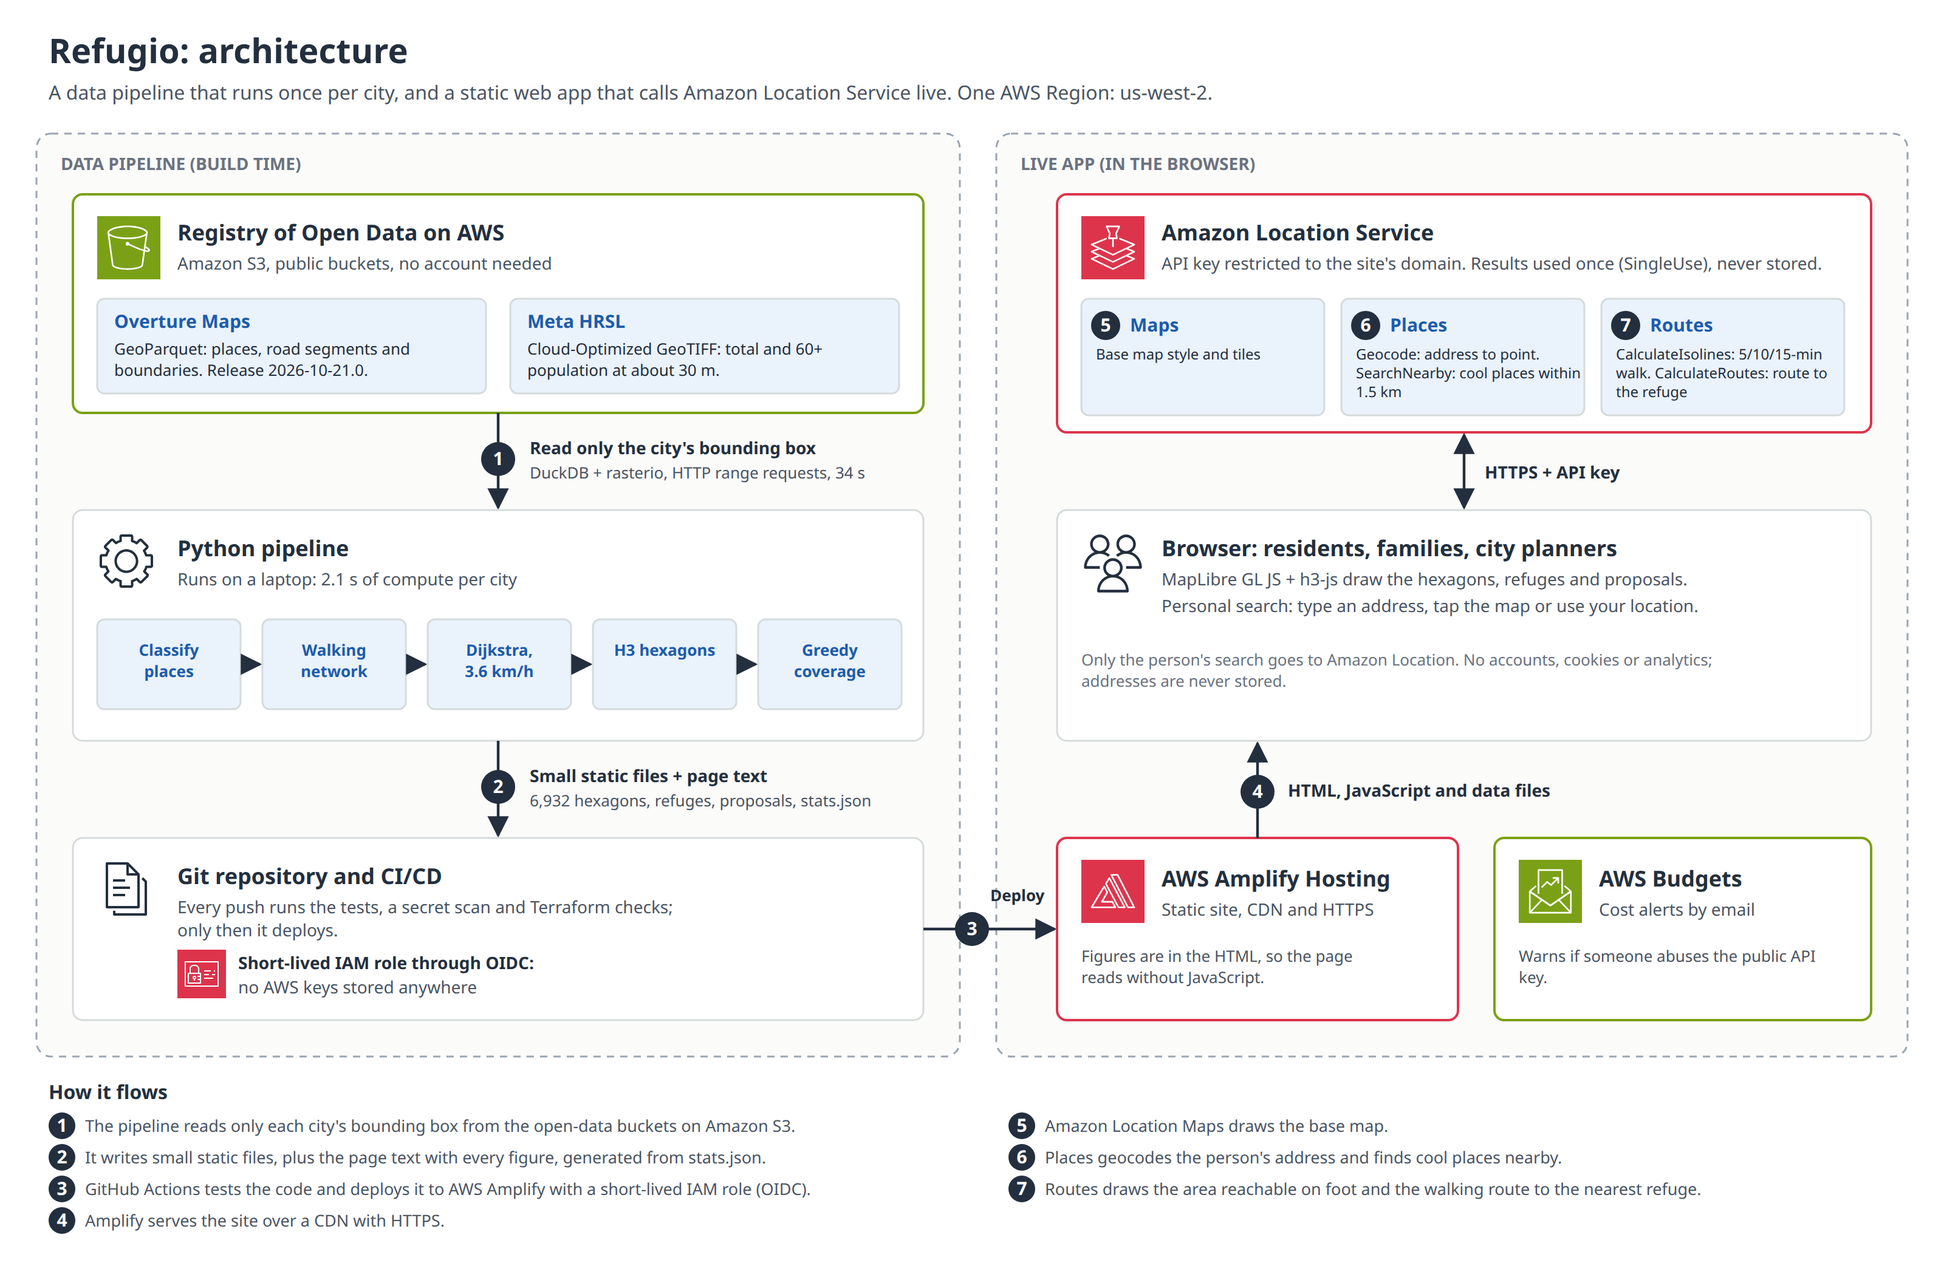
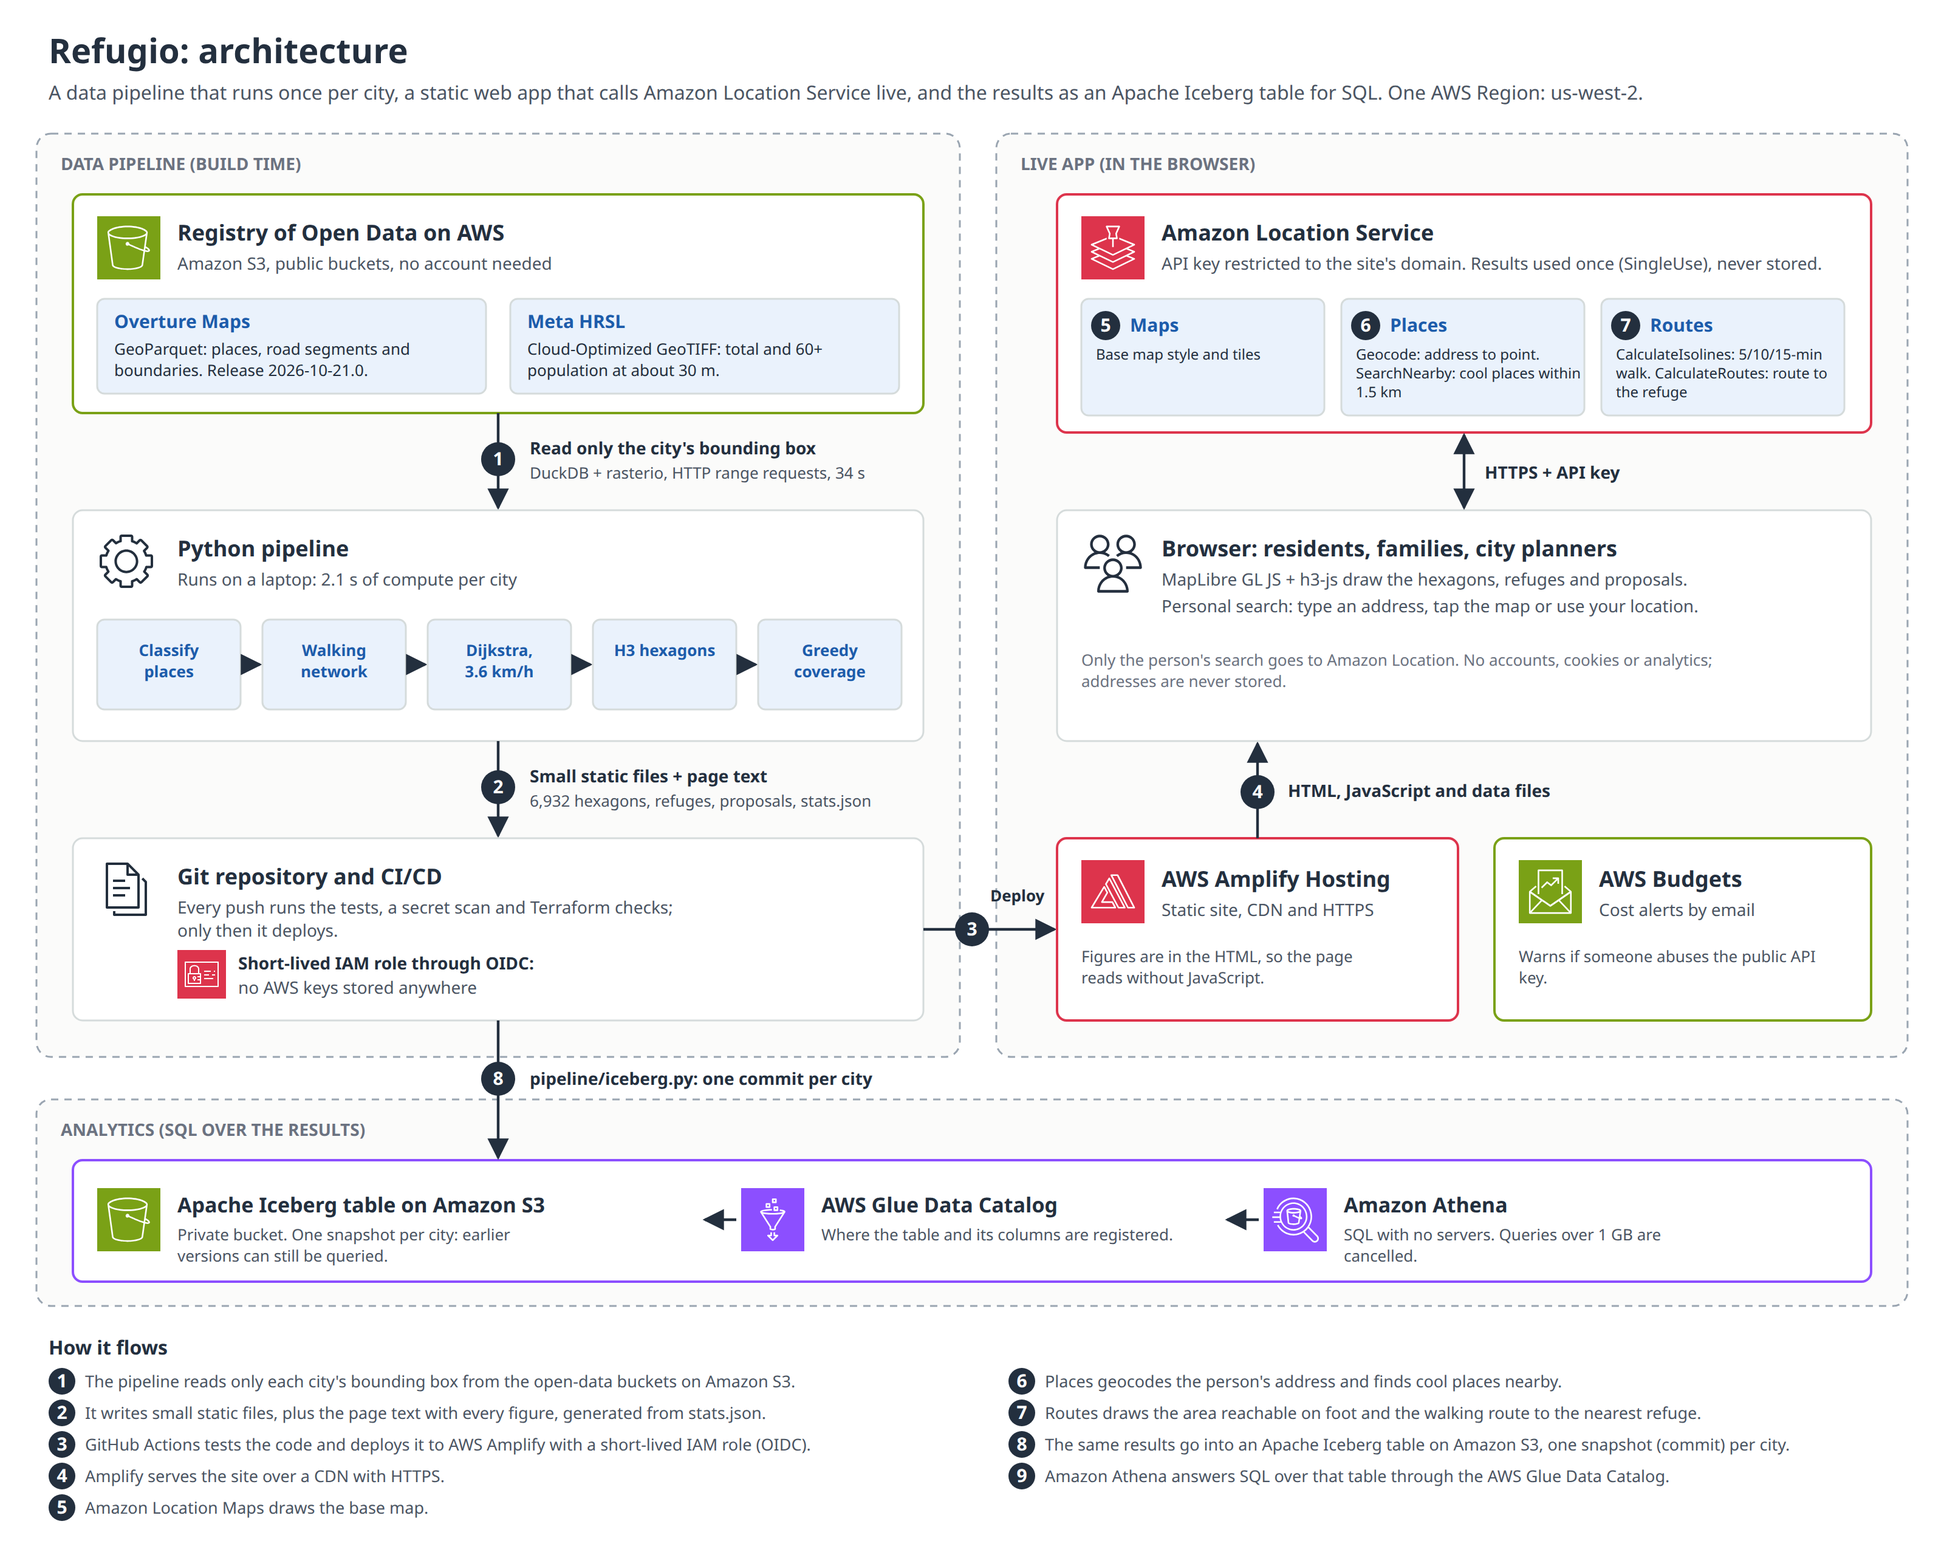
Show the Iceberg table in the architecture diagram, about page and README

diff --git a/web/about.html b/web/about.html
@@ -68,7 +68,7 @@ in Amazon S3. Only each city's bounding box is read, with HTTP range requests, s
 40 seconds instead of pulling global files.</p>
 
 <h2>How it's put on the map</h2>
-<figure><img src="img/k1_architecture.png" alt="Architecture diagram: a data pipeline reads Overture Maps and Meta HRSL from Amazon S3 and writes static files; GitHub Actions deploys them to AWS Amplify; the browser calls Amazon Location Maps, Places and Routes." loading="lazy"><figcaption>A pipeline that runs once per city, and a static site that calls Amazon Location live. One AWS Region: us-west-2.</figcaption></figure>
+<figure><img src="img/k1_architecture.png" alt="Architecture diagram: a data pipeline reads Overture Maps and Meta HRSL from Amazon S3 and writes static files; GitHub Actions deploys them to AWS Amplify; the browser calls Amazon Location Maps, Places and Routes. The same results also go into an Apache Iceberg table on Amazon S3, queried with Amazon Athena through the AWS Glue Data Catalog." loading="lazy"><figcaption>A pipeline that runs once per city, a static site that calls Amazon Location live, and the results as an Apache Iceberg table for SQL. One AWS Region: us-west-2.</figcaption></figure>
 <ol>
 <li><b>Read from S3.</b> DuckDB queries the Overture GeoParquet files by bounding box; rasterio reads only the
 needed window of the HRSL Cloud-Optimized GeoTIFFs.</li>
@@ -86,6 +86,9 @@ door, at 3.6 km/h, a conservative speed for an older adult in the heat.</li>
 within 10 minutes.</li>
 <li><b>Web.</b> The results are small static files (hexagons, refuges, proposals and statistics) drawn in the
 browser with MapLibre GL JS and h3-js on an Amazon Location base map, and hosted on AWS Amplify.</li>
+<li><b>Analytics.</b> The same results are also an Apache Iceberg table on Amazon S3, registered in the AWS Glue
+Data Catalog and queried in SQL with Amazon Athena. Each city is one commit (snapshot), so earlier versions can
+still be queried. The live map doesn't use it; example queries are in docs/iceberg.md in the repository.</li>
 </ol>
 <h3>Pipeline volumes, per city</h3>
 
@@ -95,9 +98,9 @@ the compute step runs locally.</p>
 
 <h2>AWS services</h2>
 
-<table><thead><tr><th scope="col">Service</th><th scope="col">Used for</th><th scope="col">Why</th></tr></thead><tbody><tr><td>Registry of Open Data on AWS (Amazon S3)</td><td>Overture Maps and Meta HRSL, read by bounding box</td><td>Open, global data in cloud-native formats: the same code works for any Mexican city.</td></tr><tr><td>Amazon Location Service: Maps</td><td>Base map (vector style, API key)</td><td>No tile server to run.</td></tr><tr><td>Amazon Location Service: Places</td><td>Geocode (address search) and SearchNearby (cool places near you)</td><td>Up-to-date commercial places that complement Overture. Used as SingleUse: results are never stored.</td></tr><tr><td>Amazon Location Service: Routes</td><td>CalculateIsolines (5/10/15-minute walk) and CalculateRoutes (walking route)</td><td>Pedestrian routing from the exact address, which can't be precomputed for every home.</td></tr><tr><td>AWS Amplify Hosting</td><td>Static site with CDN and HTTPS</td><td>Deployed by GitHub Actions with OIDC, no stored keys.</td></tr><tr><td>AWS Budgets</td><td>Cost alerts</td><td>Warns by email if the public API key is abused.</td></tr></tbody></table>
-<p>The infrastructure (API keys restricted to this domain, Amplify app, budget and the GitHub deploy
-role) is defined in Terraform. Every push to main runs the tests, a secret scan and Terraform checks before
+<table><thead><tr><th scope="col">Service</th><th scope="col">Used for</th><th scope="col">Why</th></tr></thead><tbody><tr><td>Registry of Open Data on AWS (Amazon S3)</td><td>Overture Maps and Meta HRSL, read by bounding box</td><td>Open, global data in cloud-native formats: the same code works for any Mexican city.</td></tr><tr><td>Amazon Location Service: Maps</td><td>Base map (vector style, API key)</td><td>No tile server to run.</td></tr><tr><td>Amazon Location Service: Places</td><td>Geocode (address search) and SearchNearby (cool places near you)</td><td>Up-to-date commercial places that complement Overture. Used as SingleUse: results are never stored.</td></tr><tr><td>Amazon Location Service: Routes</td><td>CalculateIsolines (5/10/15-minute walk) and CalculateRoutes (walking route)</td><td>Pedestrian routing from the exact address, which can't be precomputed for every home.</td></tr><tr><td>AWS Amplify Hosting</td><td>Static site with CDN and HTTPS</td><td>Deployed by GitHub Actions with OIDC, no stored keys.</td></tr><tr><td>AWS Budgets</td><td>Cost alerts</td><td>Warns by email if the public API key is abused.</td></tr><tr><td>Amazon S3, AWS Glue and Amazon Athena</td><td>The results as an Apache Iceberg table, one snapshot per city</td><td>SQL over the results with no server running; earlier versions stay queryable.</td></tr></tbody></table>
+<p>The infrastructure (API keys restricted to this domain, Amplify app, budget, the GitHub deploy
+role, and the Iceberg bucket, Glue database and Athena workgroup) is defined in Terraform. Every push to main runs the tests, a secret scan and Terraform checks before
 deploying, and an uptime check runs every 3 hours.</p>
 
 <h2>Evidence: is the open-data map right?</h2>

diff --git a/docs/diagrams/render.py b/docs/diagrams/render.py
@@ -33,6 +33,8 @@ WANTED = {  # short name -> file name inside the official package
     "amplify": "Arch_AWS-Amplify_64.svg",
     "budgets": "Arch_AWS-Budgets_64.svg",
     "iam": "Arch_AWS-Identity-and-Access-Management_64.svg",
+    "glue": "Arch_AWS-Glue_64.svg",
+    "athena": "Arch_Amazon-Athena_64.svg",
     "cloud": "AWS-Cloud-logo_32.svg",
     "client": "Res_Client_48_Light.svg",
     "users": "Res_Users_48_Light.svg",
@@ -44,6 +46,7 @@ WANTED = {  # short name -> file name inside the official package
 INK, INK2, MUTED, LINE = "#232f3e", "#4b5563", "#6b7280", "#d5dbdb"
 BLUE, BLUE_LIGHT = "#1c5cab", "#eaf2fc"
 GREEN, RED = "#7aa116", "#dd344c"  # AWS: storage & cost (green), front-end web & mobile / security (red)
+PURPLE = "#8c4fff"  # AWS: analytics
 FONT = "Noto Sans, Arial, Helvetica, sans-serif"
 
 
@@ -133,8 +136,9 @@ def architecture(s):
     out = []
     t, _ = text(40, 52, "Refugio: architecture", 28, 700)
     out.append(t)
-    t, _ = text(40, 82, "A data pipeline that runs once per city, and a static web app that calls Amazon Location "
-                        "Service live. One AWS Region: us-west-2.", 16, 400, INK2)
+    t, _ = text(40, 82, "A data pipeline that runs once per city, a static web app that calls Amazon Location "
+                        "Service live, and the results as an Apache Iceberg table for SQL. One AWS Region: us-west-2.",
+                16, 400, INK2)
     out.append(t)
 
     # The two zones
@@ -246,6 +250,25 @@ def architecture(s):
     out.append(arrow([(1205, 418), (1205, 358)], both=True))
     out.append(text(1222, 394, "HTTPS + API key", 14, 700)[0])
 
+    # C: analytics, the results as an Apache Iceberg table (the live app doesn't use it)
+    out.append(box(30, 905, 1540, 170, stroke="#9aa5b1", fill="#fbfbfa", dash=True, r=12))
+    out.append(text(50, 935, "ANALYTICS (SQL OVER THE RESULTS)", 14, 700, MUTED)[0])
+    out.append(box(60, 955, 1480, 100, stroke=PURPLE, sw=2))
+    parts = [("s3", 80, "Apache Iceberg table on Amazon S3", "Private bucket. One snapshot per city: earlier versions can still be queried."),
+             ("glue", 610, "AWS Glue Data Catalog", "Where the table and its columns are registered."),
+             ("athena", 1040, "Amazon Athena", "SQL with no servers. Queries over 1 GB are cancelled.")]
+    for name, x, title, desc in parts:
+        out.append(icon(name, x, 978, 52))
+        out.append(text(x + 66, 998, title, 17, 700)[0])
+        out.append(text(x + 66, 1021, desc, 13, 400, INK2, width=50)[0])
+    out.append(arrow([(1036, 1004), (1010, 1004)]))  # Athena -> Glue -> S3: the query path
+    out.append(arrow([(606, 1004), (580, 1004)]))
+
+    # 8: the same results into the Iceberg table
+    out.append(arrow([(410, 840), (410, 953)]))
+    out.append(badge(8, 410, 888))
+    out.append(text(436, 893, "pipeline/iceberg.py: one commit per city", 14, 700)[0])
+
     # Legend
     legend = [
         "1  The pipeline reads only each city's bounding box from the open-data buckets on Amazon S3.",
@@ -255,15 +278,17 @@ def architecture(s):
         "5  Amazon Location Maps draws the base map.",
         "6  Places geocodes the person's address and finds cool places nearby.",
         "7  Routes draws the area reachable on foot and the walking route to the nearest refuge.",
+        "8  The same results go into an Apache Iceberg table on Amazon S3, one snapshot (commit) per city.",
+        "9  Amazon Athena answers SQL over that table through the AWS Glue Data Catalog.",
     ]
-    out.append(text(40, 905, "How it flows", 16, 700)[0])
+    out.append(text(40, 1115, "How it flows", 16, 700)[0])
     for i, line in enumerate(legend):
-        col, row = divmod(i, 4)
+        col, row = divmod(i, 5)
         n, desc = line.split("  ", 1)
-        x, y = 40 + col * 790, 932 + row * 26
+        x, y = 40 + col * 790, 1142 + row * 26
         out.append(badge(n, x + 11, y - 5, 11))
         out.append(text(x + 30, y, desc, 13.5, 400, INK2)[0])
-    return svg_doc(1600, 1040, "\n".join(out))
+    return svg_doc(1600, 1280, "\n".join(out))
 
 
 # ----------------------------------------------------------------------------- K2 pipeline funnel

diff --git a/pipeline/render_html.py b/pipeline/render_html.py
@@ -232,7 +232,8 @@ def table(head, rows, cls=""):
 FIGURES = {  # images from docs/assets/ shown on about.html (copied to web/img/ by main())
     "k1_architecture.png": "Architecture diagram: a data pipeline reads Overture Maps and Meta HRSL from Amazon S3 "
                            "and writes static files; GitHub Actions deploys them to AWS Amplify; the browser calls "
-                           "Amazon Location Maps, Places and Routes.",
+                           "Amazon Location Maps, Places and Routes. The same results also go into an Apache Iceberg "
+                           "table on Amazon S3, queried with Amazon Athena through the AWS Glue Data Catalog.",
     "k8_validation_culiacan.png": "Scatter plot of walking minutes, open-data map versus Amazon Location routes, for "
                                   "50 random hexagons: the points sit on the y = x line.",
 }
@@ -388,11 +389,15 @@ door, at 3.6 km/h, a conservative speed for an older adult in the heat.</li>
 within 10 minutes.</li>
 <li><b>Web.</b> The results are small static files (hexagons, refuges, proposals and statistics) drawn in the
 browser with MapLibre GL JS and h3-js on an Amazon Location base map, and hosted on AWS Amplify.</li>
+<li><b>Analytics.</b> The same results are also an Apache Iceberg table on Amazon S3, registered in the AWS Glue
+Data Catalog and queried in SQL with Amazon Athena. Each city is one commit (snapshot), so earlier versions can
+still be queried. The live map doesn't use it; example queries are in docs/iceberg.md in the repository.</li>
 </ol>
 <h3>Pipeline volumes, per city</h3>
 """.replace("DETOUR_RANGE", f"{d['p5']} to {d['p95']}").replace("DETOUR", f"{d['median']}")
-               .replace("FIG_K1", figure("k1_architecture.png", "A pipeline that runs once per city, and a static "
-                                         "site that calls Amazon Location live. One AWS Region: us-west-2.")))
+               .replace("FIG_K1", figure("k1_architecture.png", "A pipeline that runs once per city, a static site "
+                                         "that calls Amazon Location live, and the results as an Apache Iceberg "
+                                         "table for SQL. One AWS Region: us-west-2.")))
     vrows = []
     for s in cities:
         q, n = s["pipeline"], s["network"]
@@ -421,9 +426,11 @@ the compute step runs locally.</p>
          "Pedestrian routing from the exact address, which can't be precomputed for every home."],
         ["AWS Amplify Hosting", "Static site with CDN and HTTPS", "Deployed by GitHub Actions with OIDC, no stored keys."],
         ["AWS Budgets", "Cost alerts", "Warns by email if the public API key is abused."],
+        ["Amazon S3, AWS Glue and Amazon Athena", "The results as an Apache Iceberg table, one snapshot per city",
+         "SQL over the results with no server running; earlier versions stay queryable."],
     ]))
-    out.append(f"""<p>The infrastructure (API keys restricted to this domain, Amplify app, budget and the GitHub deploy
-role) is defined in Terraform. Every push to main runs the tests, a secret scan and Terraform checks before
+    out.append(f"""<p>The infrastructure (API keys restricted to this domain, Amplify app, budget, the GitHub deploy
+role, and the Iceberg bucket, Glue database and Athena workgroup) is defined in Terraform. Every push to main runs the tests, a secret scan and Terraform checks before
 deploying, and an uptime check runs every 3 hours.</p>
 
 <h2>Evidence: is the open-data map right?</h2>

diff --git a/README.md b/README.md
@@ -36,7 +36,7 @@ data). Across the three cities, 52,542 are.
 
 ## How it works
 
-![Architecture diagram: the pipeline reads Overture Maps and Meta HRSL from Amazon S3 and writes static files; GitHub Actions deploys them to AWS Amplify; the browser calls Amazon Location Maps, Places and Routes](docs/assets/k1_architecture.png)
+![Architecture diagram: the pipeline reads Overture Maps and Meta HRSL from Amazon S3 and writes static files; GitHub Actions deploys them to AWS Amplify; the browser calls Amazon Location Maps, Places and Routes; the same results also go into an Apache Iceberg table on Amazon S3, queried with Amazon Athena](docs/assets/k1_architecture.png)
 
 ```mermaid
 flowchart LR
@@ -47,7 +47,9 @@ flowchart LR
   subgraph P["pipeline/ (Python, build time)"]
     F["fetch.py<br/>DuckDB + rasterio, bounding box only"] --> B["build.py<br/>classify, walking network,<br/>Dijkstra, H3, greedy coverage"]
     B --> R["render_html.py<br/>page text from stats.json"]
+    B --> I["iceberg.py<br/>results as an Apache Iceberg table"]
   end
+  I --> T["Amazon S3 + AWS Glue Data Catalog<br/>queried in SQL with Amazon Athena"]
   O --> F
   H --> F
   R --> W["web/ static files"]
@@ -90,6 +92,7 @@ from open data, so anyone can recompute it. Amazon Location results are used onc
 | Amazon Location Service: Routes | CalculateIsolines and CalculateRoutes (pedestrian) |
 | AWS Amplify Hosting | Static site, CDN and HTTPS |
 | AWS Budgets | Cost alerts |
+| Amazon S3, AWS Glue and Amazon Athena | The results as an Apache Iceberg table (one snapshot per city), queried in SQL |
 
 ## Evidence
 
@@ -101,7 +104,8 @@ from open data, so anyone can recompute it. Amazon Location results are used onc
 | Street network realism | Walking along streets is a median 1.24 times the straight line in Culiacán |
 | Older adults: HRSL vs INEGI 2020 census | HRSL: 7.7% of Culiacán is 60+; census: 10.9%. Counts are probably low; shares hold if the gap is even ([pipeline/census.py](pipeline/census.py)) |
 
-Details: [docs/validation.md](docs/validation.md). Development journal, with every decision and mistake:
+Details: [docs/validation.md](docs/validation.md). The results as an Apache Iceberg table, with example SQL
+queries, a snapshot per city and time travel: [docs/iceberg.md](docs/iceberg.md). Development journal, with every decision and mistake:
 [docs/journal.md](docs/journal.md).
 
 ![Bar chart: share of older adults by walking minutes to the nearest refuge in Culiacán, Hermosillo and Mexicali](docs/assets/k6_bands.png)
@@ -152,6 +156,10 @@ python docs/diagrams/render.py                               # K1-K3 (downloads 
 - `infra/`: Terraform for the Amazon Location API keys (restricted to 5 actions and to the site's domain, expiring
   2027-01-31), the Amplify app, a $5 monthly budget with email alerts, and the IAM role GitHub Actions assumes
   through OIDC. Copy `terraform.tfvars.example` to `terraform.tfvars`, then `terraform -chdir=infra init && terraform -chdir=infra apply`.
+- `infra/analytics.tf`: the results as an Apache Iceberg table on Amazon S3: a private bucket, a Glue database
+  and an Athena workgroup that cancels queries over 1 GB, with query results deleted after 7 days. After
+  `apply`, fill it with `python pipeline/iceberg.py --bucket "$(terraform -chdir=infra output -raw analytics_bucket)"`
+  (needs `requirements-evidence.txt` and AWS credentials; about 26 s and under one cent of Athena queries).
 - `.github/workflows/ci.yml`: tests, a secret scan (gitleaks) and Terraform checks on every pull request.
 - `.github/workflows/deploy.yml`: on every push to `main`, the same checks, then `deploy/deploy.sh` publishes `web/`
   to Amplify and a smoke test checks the live site.
@@ -161,7 +169,7 @@ python docs/diagrams/render.py                               # K1-K3 (downloads 
 
 | Path | What it is |
 |---|---|
-| `pipeline/` | `fetch.py` (download), `build.py` (walking access), `render_html.py` (page text), `evidence.py` (validation), tests |
+| `pipeline/` | `fetch.py` (download), `build.py` (walking access), `render_html.py` (page text), `evidence.py` (validation), `iceberg.py` (Iceberg table), tests |
 | `web/` | The static app (`index.html`, `app.js`, `style.css`), `about.html`, `llms.txt`, and `web/data/` with the generated data |
 | `docs/` | Development journal, validation results, and the scripts and images of the diagrams, charts and screenshots |
 | `infra/` | Terraform |
